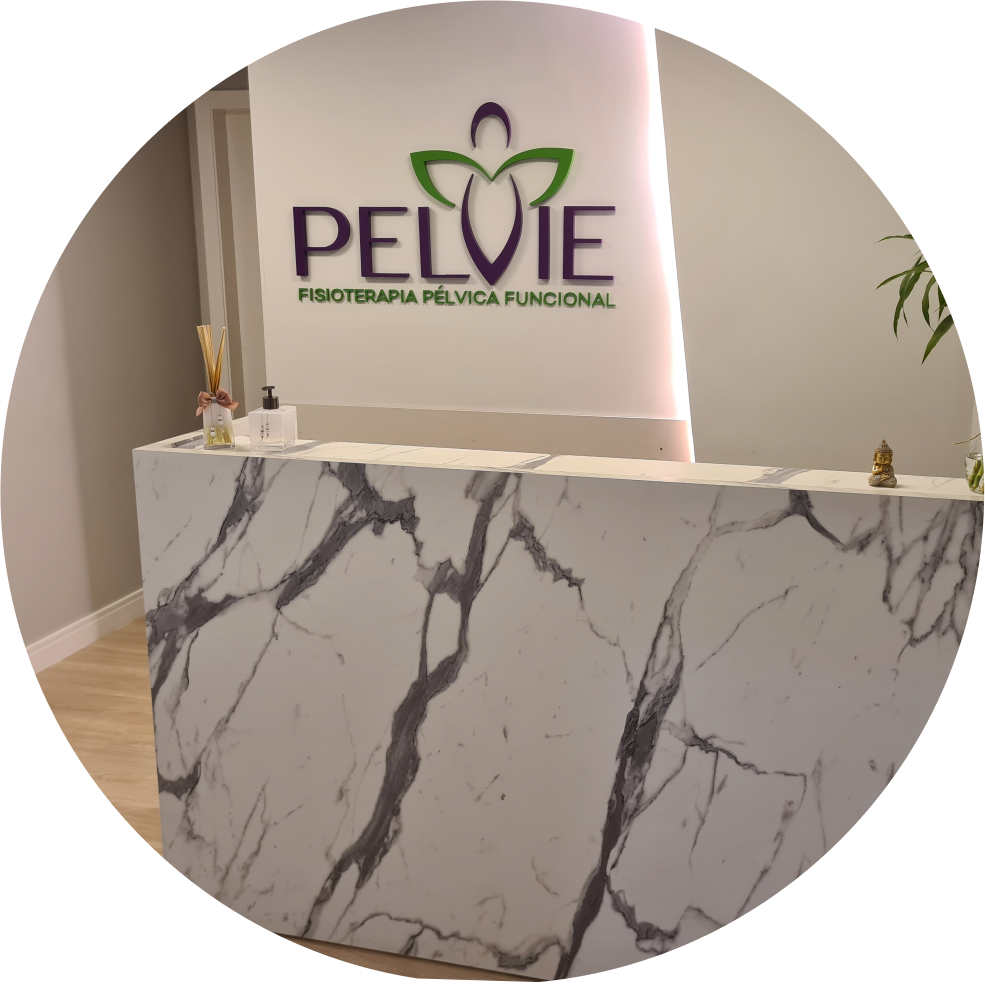
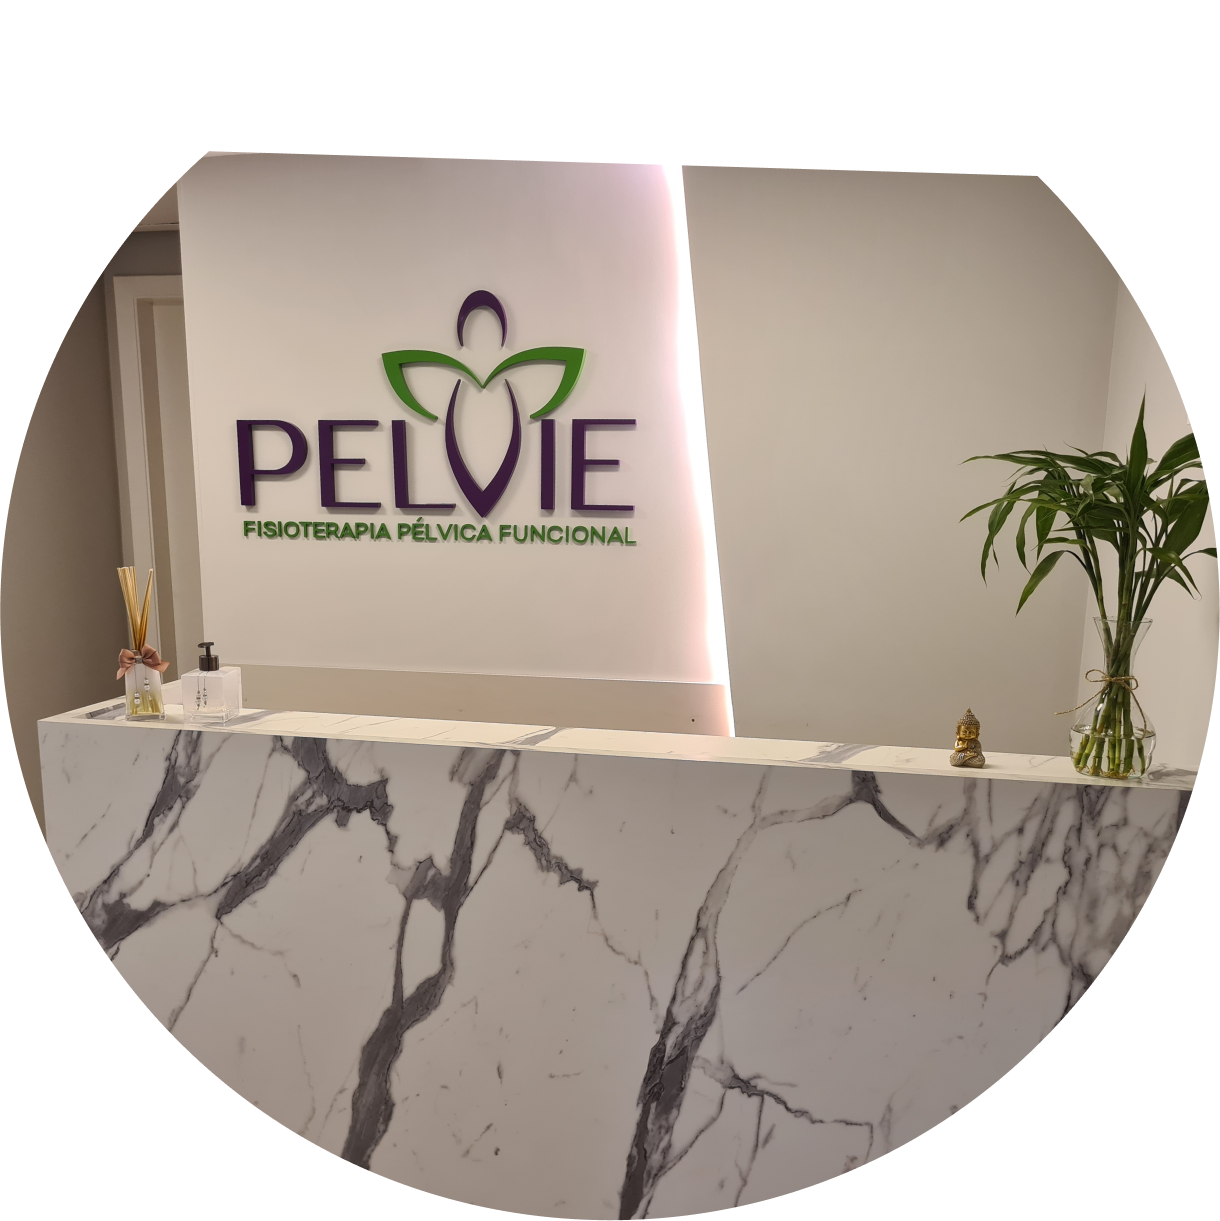
criação do componente Hero

diff --git a/src/pages/home/index.jsx b/src/pages/home/index.jsx
@@ -2,27 +2,48 @@ import React from "react";
 import Container from "../../components/container";
 import "./styles.css";
 import BoxAnimation from "../../components/boxAnimation";
+import Hero from "../../components/hero";
+import heartIcon from "../../assets/img/svgs/heartIcon.svg";
+import starIcon from "../../assets/img/svgs/starIcon.svg";
+import peopleIcon from "../../assets/img/svgs/peopleIcon.svg";
 
 const Home = () => {
   return (
     <>
-      <Container sectionClass="bgHero teste" mainClass="hero">
-        <div>
-          <span>Tratamento humanizado e personalizado!</span>
-          <h1>
-            SOMOS UMA CLÍNICA ESPECIALIZADA EM{" "}
-            <span>FISIOTERAPIA PÉLVICA!</span>
-          </h1>
-          <p>
-            Benefícios duradouros através de mudanças positivas no estilo de
-            vida. Todas as profissionais com especialização na área de
-            Fisioterapia Pélvica!
-          </p>
-        </div>
-      </Container>
-      <Container>
-        
-      </Container>
+      <Hero
+        spanText="Tratamento humanizado e personalizado!"
+        titleTextBe="SOMOS UMA CLÍNICA ESPECIALIZADA EM"
+        titleSpan="FISIOTERAPIA PÉLVICA!"
+        imgBg="/src/assets/img/webp/bgHeroTeste.webp"
+        pText="Benefícios duradouros através de mudanças positivas no estilo de vida.
+        Todas as profissionais com especialização na área de Fisioterapia
+        Pélvica!"
+      />
+      <BoxAnimation animation="top">
+        <Container mainClass="hEscolha">
+          <div className="hDescription">
+            <h3>Por que escolher a Pelvie?</h3>
+            <p>Temos um cuidado completo e inigualável em saúde pélvica</p>
+          </div>
+          <div className="hCardEscolha">
+            <img src={heartIcon} width="50" alt="icone de coração" />
+            <h3>Suporte completo</h3>
+            <p>
+              Temos várias linhas de atuação para entregar a melhor experiência!
+            </p>
+          </div>
+          <div className="hCardEscolha">
+            <img src={starIcon} width="50" alt="icone de estrela" />
+            <h3>+100 avaliações</h3>
+            <p>Todas as nossas avaliações no Google são 5 estrelas!</p>
+          </div>
+          <div className="hCardEscolha">
+            <img src={peopleIcon} width="50" alt="icone de pessoa" />
+            <h3>Equipe especializada</h3>
+            <p>Temos uma equipe completa para ajudar na sua recuperação!</p>
+          </div>
+        </Container>
+      </BoxAnimation>
     </>
   );
 };

diff --git a/src/pages/home/styles.css b/src/pages/home/styles.css
@@ -1,44 +1,37 @@
-.bgHero {
-  background-image: url(../../assets/img/webp/bgHeroTeste.webp);
-  background-position: 120%;
-  background-size: contain;
-  background-repeat: no-repeat;
-}
-
-.hero {
-  padding-top: 100px;
-  min-height: 100vh;
-  display: grid;
-  grid-template-columns: 1fr 1fr;
-  place-items: center;
-}
-
-.hero div {
-  height: 100%;
+.hEscolha {
+  border-radius: 1.875rem;
+  border: 2px solid #dfdfdf;
+  background: #fff;
+  box-shadow: 10px 8px 10px 0px rgba(124, 124, 124, 0.2);
   display: flex;
-  align-items: start;
-  justify-content: center;
-  flex-direction: column;
+  justify-content: space-between;
+  align-items: center;
+  padding: 4rem 1rem;
   position: relative;
-  top: -60px;
+
+  top: -150px;
+}
+.hDescription {
+  max-width: 50%;
+  margin-left: 3rem;
+}
+.hDescription h3 {
+  font-weight: 800;
+  font-size: 2.5rem;
+  color: var(--roxo1);
 }
 
-.hero span:nth-child(1),
-.hero h1 {
-  color: var(--cinza);
-  line-height: 1.2;
+.hCardEscolha {
+  /* background-color: red; */
+  padding: 0 2rem;
+  display: flex;
+  flex-direction: column;
+  margin: 0 0.5rem;
+  gap: 2rem;
+  justify-content: space-between;
 }
-.hero span:nth-child(1) {
-  margin-bottom: 1rem;
-}
-.hero h1 span {
-  font-size: inherit;
-  color: var(--roxo1) !important;
-}
-.hero h1 {
-  margin-bottom: 1rem;
-}
-.hero p {
-  margin-top: 2rem;
+
+.hCardEscolha h3 {
   font-size: 2rem;
+  color: var(--roxo1);
 }

diff --git a/src/components/hero/styles.css b/src/components/hero/styles.css
@@ -1,0 +1,45 @@
+.bgHero {
+  background-position: 120%;
+  background-size: contain;
+  background-repeat: no-repeat;
+  /* background-attachment: fixed; */
+}
+
+.hero {
+  padding-top: 100px;
+  min-height: 100vh;
+  display: grid;
+  grid-template-columns: 1fr 1fr;
+  place-items: center;
+}
+
+.hero div {
+  height: 100%;
+  display: flex;
+  align-items: start;
+  justify-content: center;
+  flex-direction: column;
+  position: relative;
+  top: -60px;
+}
+
+.hero span:nth-child(1),
+.hero h1 {
+  color: var(--cinza);
+  line-height: 1.2;
+  text-transform: uppercase;
+}
+.hero span:nth-child(1) {
+  margin-bottom: 1rem;
+}
+.hero h1 span {
+  font-size: inherit;
+  color: var(--roxo1) !important;
+}
+.hero h1 {
+  margin-bottom: 1rem;
+}
+.hero p {
+  margin-top: 2rem;
+  font-size: 2rem;
+}

diff --git a/src/pages/tratamento/index.jsx b/src/pages/tratamento/index.jsx
@@ -1,13 +1,20 @@
 import React from "react";
 import Container from "../../components/container";
 import Slider from "../../components/slider";
+import Hero from "../../components/hero";
 
 const Tratamento = () => {
   return (
-    <Container>
-      <h1>Tratamento</h1>
-      <Slider />
-    </Container>
+    <>
+      <Hero
+        spanText="Tratamento humanizado e personalizado!"
+        titleTextBe="acreditamos que o"
+        titleSpan="ACOLHIMENTO é tão fundamental"
+        titleTextAf="quanto o tratamento em si"
+        imgBg="/src/assets/img/webp/bgHeroTratamento.png"
+        pText="Aqui na Pelvie, oferecemos um atendimento empático e com escuta ativa, onde nossos pacientes se sintam seguros e em casa, com total atenção às suas necessidades."
+      />
+    </>
   );
 };
 

diff --git a/src/index.css b/src/index.css
@@ -1,4 +1,4 @@
-@import url("https://fonts.googleapis.com/css2?family=Inter:wght@300;400;700&family=Poppins:ital,wght@0,300;0,400;0,700;1,300;1,400;1,700&display=swap");
+@import url("https://fonts.googleapis.com/css2?family=Inter:wght@300;400;700&family=Poppins:ital,wght@0,300;0,400;0,700;0,800;1,300;1,400;1,700&display=swap");
 
 :root {
   --pad: 3rem;
@@ -46,13 +46,13 @@ li {
 }
 
 h1 {
-  font-size: 5rem;
-}
-h2 {
   font-size: 4.5rem;
 }
-h3 {
+h2 {
   font-size: 4rem;
+}
+h3 {
+  font-size: 3.5rem;
 }
 
 a {
@@ -125,6 +125,12 @@ button:hover {
   height: 10px;
   left: -2px;
   top: 45%;
+}
+
+@media (max-width: 1400px) {
+  h1 {
+    font-size: 4rem;
+  }
 }
 @media (max-width: 1100px) {
   .navMenu a {

diff --git a/src/components/hero/index.jsx b/src/components/hero/index.jsx
@@ -1,0 +1,34 @@
+import React from "react";
+import Container from "../container";
+import "./styles.css";
+
+const Hero = ({
+  spanText,
+  titleTextBe,
+  titleTextAf,
+  titleSpan,
+  pText,
+  imgBg,
+  children,
+}) => {
+  return (
+    <Container
+      mainClass="hero"
+      sectionClass="bgHero"
+      style={{
+        backgroundImage: `url(${imgBg})`,
+      }}
+    >
+      <div>
+        <span>{spanText}</span>
+        <h1>
+          {titleTextBe} <span>{titleSpan}</span> {titleTextAf}
+        </h1>
+        <p>{pText}</p>
+      </div>
+      {children}
+    </Container>
+  );
+};
+
+export default Hero;
